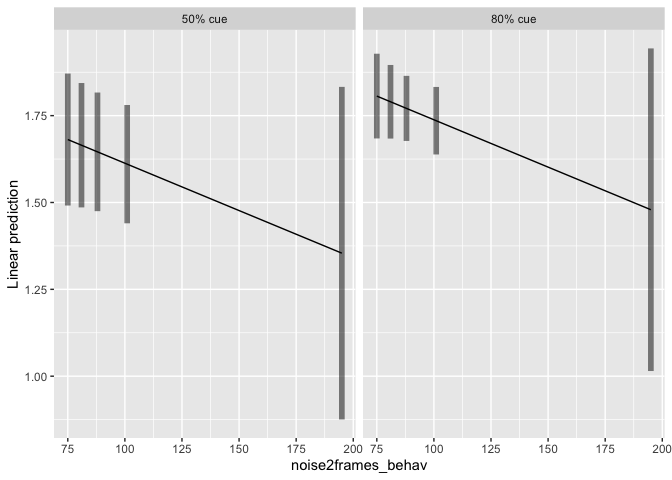
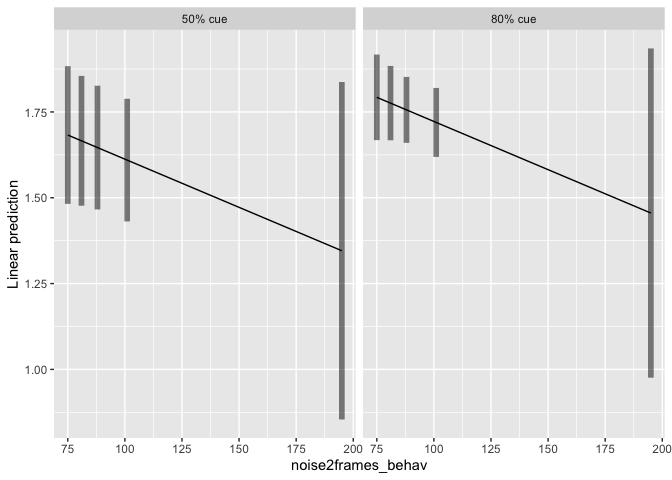
fix x-axis error in some noise plots, add new results

diff --git a/analysis/pilot_analysis.md b/analysis/pilot_analysis.md
@@ -18,6 +18,10 @@ Pilot analyses: version 3
     response as a function of noise2
     duration](#for-signal-2-responses-only-probability-of-making-cue-based-response-as-a-function-of-noise2-duration)
 
+hello! if you are looking for the source code to produce the results
+displayed below, you should navigate to the `.Rmd` version of this
+document.
+
 # data tidying
 
 ``` r
@@ -133,6 +137,7 @@ summary(m)
 ``` r
 # run model
 m <- inferenceData_tidy %>%
+  filter(catch_trial == 0) %>%
   filter(respPeriod != 'noise1') %>%
   lm(vizLocked_respFrame_t ~ noise1frames_behav + cueType, ., contrasts = list(cueType = contr.sum))
 
@@ -178,25 +183,26 @@ summary(m)
     ## 
     ## Residuals:
     ##     Min      1Q  Median      3Q     Max 
-    ## -2.5324 -1.3524 -0.3342  1.1996  5.0998 
+    ## -2.5507 -1.3533 -0.3217  1.2028  5.0783 
     ## 
     ## Coefficients:
-    ##                      Estimate Std. Error t value Pr(>|t|)    
-    ## (Intercept)         2.5402930  0.2201861  11.537   <2e-16 ***
-    ## noise1frames_behav -0.0002238  0.0022983  -0.097    0.922    
-    ## cueType1           -0.0280396  0.0478469  -0.586    0.558    
+    ##                     Estimate Std. Error t value Pr(>|t|)    
+    ## (Intercept)         2.602010   0.231176  11.256   <2e-16 ***
+    ## noise1frames_behav -0.000862   0.002415  -0.357    0.721    
+    ## cueType1           -0.039539   0.050427  -0.784    0.433    
     ## ---
     ## Signif. codes:  0 '***' 0.001 '**' 0.01 '*' 0.05 '.' 0.1 ' ' 1
     ## 
-    ## Residual standard error: 1.693 on 1772 degrees of freedom
-    ## Multiple R-squared:  0.0002001,  Adjusted R-squared:  -0.0009284 
-    ## F-statistic: 0.1773 on 2 and 1772 DF,  p-value: 0.8375
+    ## Residual standard error: 1.688 on 1602 degrees of freedom
+    ## Multiple R-squared:  0.00047,    Adjusted R-squared:  -0.0007778 
+    ## F-statistic: 0.3767 on 2 and 1602 DF,  p-value: 0.6862
 
 ## for signal 2 responses only, effect of noise2 duration + cueType on zlogRT
 
 ``` r
 # fit model
 m <- inferenceData_tidy %>%
+  filter(catch_trial == 0) %>%
   filter(respPeriod == 'signal2') %>%
   lm(vizLocked_sig2Resp ~ noise2frames_behav + cueType, ., contrasts = list(cueType = contr.sum))
 
@@ -243,19 +249,19 @@ summary(m)
     ## 
     ## Residuals:
     ##     Min      1Q  Median      3Q     Max 
-    ## -1.7842 -0.9492 -0.2359  0.7227  3.9880 
+    ## -1.7703 -0.9411 -0.2309  0.7216  4.0020 
     ## 
     ## Coefficients:
     ##                     Estimate Std. Error t value Pr(>|t|)    
-    ## (Intercept)         1.948175   0.219745   8.866   <2e-16 ***
-    ## noise2frames_behav -0.002726   0.002279  -1.196    0.232    
-    ## cueType1           -0.062531   0.048679  -1.285    0.199    
+    ## (Intercept)         1.948306   0.227038   8.581   <2e-16 ***
+    ## noise2frames_behav -0.002809   0.002348  -1.196    0.232    
+    ## cueType1           -0.054900   0.051016  -1.076    0.282    
     ## ---
     ## Signif. codes:  0 '***' 0.001 '**' 0.01 '*' 0.05 '.' 0.1 ' ' 1
     ## 
-    ## Residual standard error: 1.198 on 865 degrees of freedom
-    ## Multiple R-squared:  0.003685,   Adjusted R-squared:  0.001381 
-    ## F-statistic:   1.6 on 2 and 865 DF,  p-value: 0.2026
+    ## Residual standard error: 1.185 on 792 degrees of freedom
+    ## Multiple R-squared:  0.003461,   Adjusted R-squared:  0.0009443 
+    ## F-statistic: 1.375 on 2 and 792 DF,  p-value: 0.2534
 
 ``` r
 print(emm)
@@ -264,38 +270,38 @@ print(emm)
     ## $emmeans
     ## cueType = 50% cue:
     ##  noise2frames_behav emmean     SE  df lower.CL upper.CL
-    ##                  75   1.68 0.0968 865    1.491     1.87
-    ##                  81   1.66 0.0912 865    1.486     1.84
-    ##                  88   1.65 0.0870 865    1.475     1.82
-    ##                 101   1.61 0.0868 865    1.440     1.78
-    ##                 195   1.35 0.2439 865    0.875     1.83
+    ##                  75   1.68 0.1022 792    1.482     1.88
+    ##                  81   1.67 0.0963 792    1.477     1.85
+    ##                  88   1.65 0.0918 792    1.466     1.83
+    ##                 101   1.61 0.0910 792    1.431     1.79
+    ##                 195   1.35 0.2504 792    0.854     1.84
     ## 
     ## cueType = 80% cue:
     ##  noise2frames_behav emmean     SE  df lower.CL upper.CL
-    ##                  75   1.81 0.0621 865    1.684     1.93
-    ##                  81   1.79 0.0540 865    1.684     1.90
-    ##                  88   1.77 0.0477 865    1.677     1.86
-    ##                 101   1.74 0.0495 865    1.638     1.83
-    ##                 195   1.48 0.2366 865    1.015     1.94
+    ##                  75   1.79 0.0635 792    1.668     1.92
+    ##                  81   1.78 0.0552 792    1.667     1.88
+    ##                  88   1.76 0.0489 792    1.660     1.85
+    ##                 101   1.72 0.0511 792    1.619     1.82
+    ##                 195   1.46 0.2443 792    0.976     1.94
     ## 
     ## Confidence level used: 0.95 
     ## 
     ## $contrasts
     ## cueType = 50% cue:
     ##  contrast                     estimate     SE  df t.ratio p.value
-    ##  noise2frames_behav75 effect    0.0900 0.0752 865   1.196  0.2321
-    ##  noise2frames_behav81 effect    0.0736 0.0615 865   1.196  0.2321
-    ##  noise2frames_behav88 effect    0.0545 0.0456 865   1.196  0.2321
-    ##  noise2frames_behav101 effect   0.0191 0.0160 865   1.196  0.2321
-    ##  noise2frames_behav195 effect  -0.2371 0.1983 865  -1.196  0.2321
+    ##  noise2frames_behav75 effect    0.0927 0.0775 792   1.196  0.2320
+    ##  noise2frames_behav81 effect    0.0758 0.0634 792   1.196  0.2320
+    ##  noise2frames_behav88 effect    0.0562 0.0470 792   1.196  0.2320
+    ##  noise2frames_behav101 effect   0.0197 0.0164 792   1.196  0.2320
+    ##  noise2frames_behav195 effect  -0.2444 0.2043 792  -1.196  0.2320
     ## 
     ## cueType = 80% cue:
     ##  contrast                     estimate     SE  df t.ratio p.value
-    ##  noise2frames_behav75 effect    0.0900 0.0752 865   1.196  0.2321
-    ##  noise2frames_behav81 effect    0.0736 0.0615 865   1.196  0.2321
-    ##  noise2frames_behav88 effect    0.0545 0.0456 865   1.196  0.2321
-    ##  noise2frames_behav101 effect   0.0191 0.0160 865   1.196  0.2321
-    ##  noise2frames_behav195 effect  -0.2371 0.1983 865  -1.196  0.2321
+    ##  noise2frames_behav75 effect    0.0927 0.0775 792   1.196  0.2320
+    ##  noise2frames_behav81 effect    0.0758 0.0634 792   1.196  0.2320
+    ##  noise2frames_behav88 effect    0.0562 0.0470 792   1.196  0.2320
+    ##  noise2frames_behav101 effect   0.0197 0.0164 792   1.196  0.2320
+    ##  noise2frames_behav195 effect  -0.2444 0.2043 792  -1.196  0.2320
     ## 
     ## P value adjustment: fdr method for 5 tests
 
